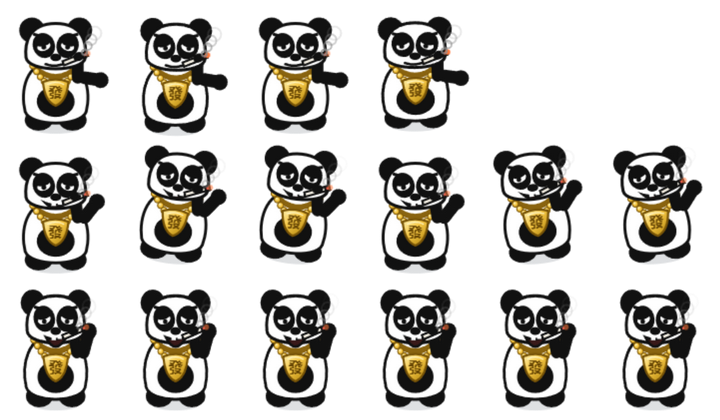
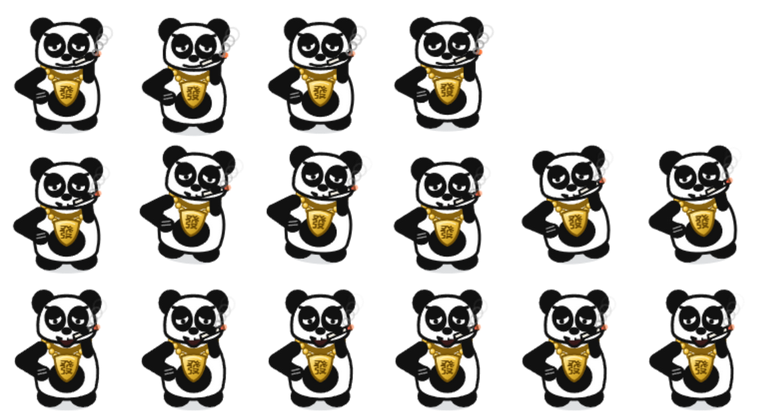
熊猫人：改成一手叉腰，修掉「少一只手」
真正的根因：两条胳膊的 x 都是正的，全画在身体右侧，
左侧压根没画 —— 所以不管怎么调位置都还是看着少一只手。

- 左臂改成叉腰：肘部向外撑到 x=-52，手按回腰侧 (x=-30)，
  折角明确、画在身体上层，一眼就能看见
- 手上补了两道手指缝，避免变成一坨黑
- 右臂保持抬起掐烟，两条胳膊分别落在左右两侧

diff --git a/build/make-skins.js b/build/make-skins.js
@@ -375,15 +375,32 @@ function drawPanda(ctx, q, p, kind) {
   ctx.textAlign = 'center'; ctx.textBaseline = 'middle';
   ctx.fillText('發', mx, my + 2);
 
-  /* ---- 右臂：画在身体之上，末端伸出轮廓外（否则会被身体整个盖住，看着像少只手） ---- */
-  const ra = 1.15 - q.arm * 2.4;
-  const rex = 35 + Math.cos(ra) * 19, rey = -6 + Math.sin(ra) * 21;
-  ctx.lineCap = 'round';
-  ctx.strokeStyle = '#111111'; ctx.lineWidth = 15;
-  ctx.beginPath(); ctx.moveTo(34, -2); ctx.lineTo(rex, rey); ctx.stroke();
-  ctx.beginPath(); ctx.arc(rex, rey, 8, 0, TAU);
-  ctx.fillStyle = '#111111'; ctx.fill();
-  ctx.lineWidth = 2.8; ctx.strokeStyle = LINE; ctx.stroke();
+  /* ---- 左臂：叉腰。注意必须画在身体【左侧】（x 为负）——
+       之前两条胳膊都在右侧，左侧是空的，看着就像少一只手。
+       叉腰要画出「肘向外撑、手按回腰侧」的折角，才一眼认得出。 ---- */
+  const elbowOut = 52 + q.arm * 3;
+  const hipX = -30, hipY = 20 + q.arm * 2;
+  ctx.lineCap = 'round'; ctx.lineJoin = 'round';
+  ctx.strokeStyle = LINE; ctx.lineWidth = 17;
+  ctx.beginPath();
+  ctx.moveTo(-32, -6);
+  ctx.lineTo(-elbowOut, 8);
+  ctx.lineTo(hipX, hipY);
+  ctx.stroke();
+  ctx.strokeStyle = '#111111'; ctx.lineWidth = 13.5;
+  ctx.beginPath();
+  ctx.moveTo(-32, -6);
+  ctx.lineTo(-elbowOut, 8);
+  ctx.lineTo(hipX, hipY);
+  ctx.stroke();
+  /* 按在腰上的手 */
+  ctx.fillStyle = '#111111';
+  ctx.beginPath(); ctx.ellipse(hipX, hipY, 9, 7.5, -0.25, 0, TAU); ctx.fill();
+  ctx.lineWidth = 2.6; ctx.strokeStyle = LINE; ctx.stroke();
+  /* 手指缝，让它一眼是「手」而不是一坨 */
+  ctx.strokeStyle = 'rgba(255,255,255,.55)'; ctx.lineWidth = 1.6;
+  ctx.beginPath(); ctx.moveTo(hipX - 5, hipY - 3); ctx.lineTo(hipX + 4, hipY - 5); ctx.stroke();
+  ctx.beginPath(); ctx.moveTo(hipX - 5, hipY + 1); ctx.lineTo(hipX + 5, hipY - 1); ctx.stroke();
 
   /* ---- 左手：抬到嘴边掐着烟 ---- */
   const ha = -1.45 - q.arm * 0.35;
